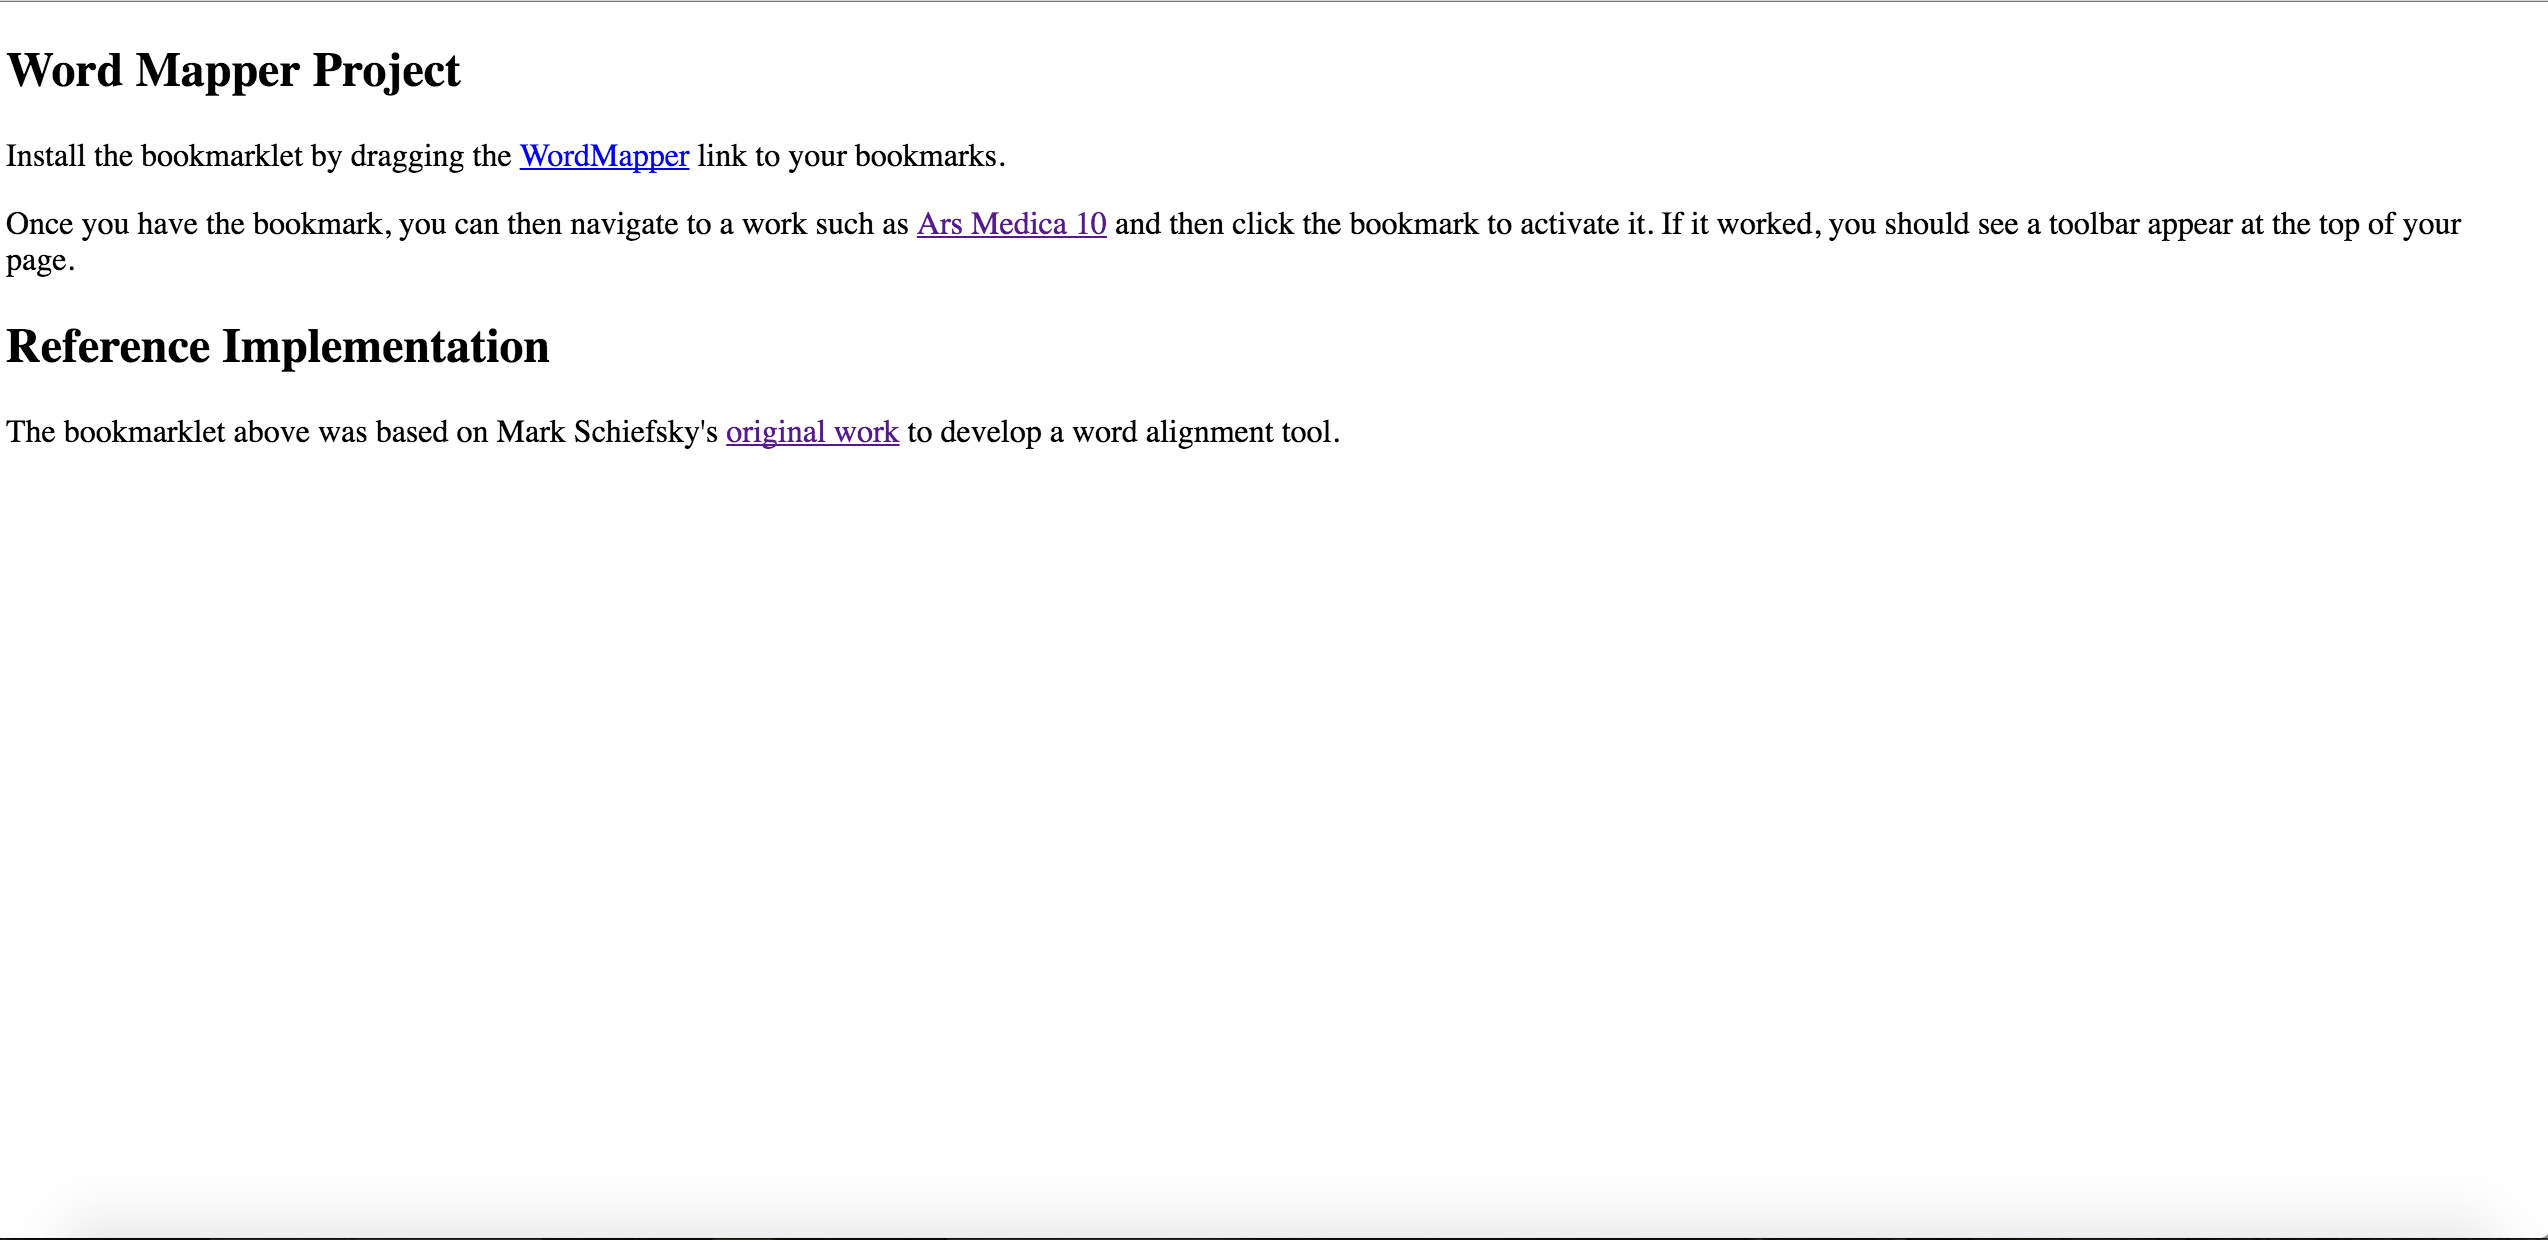
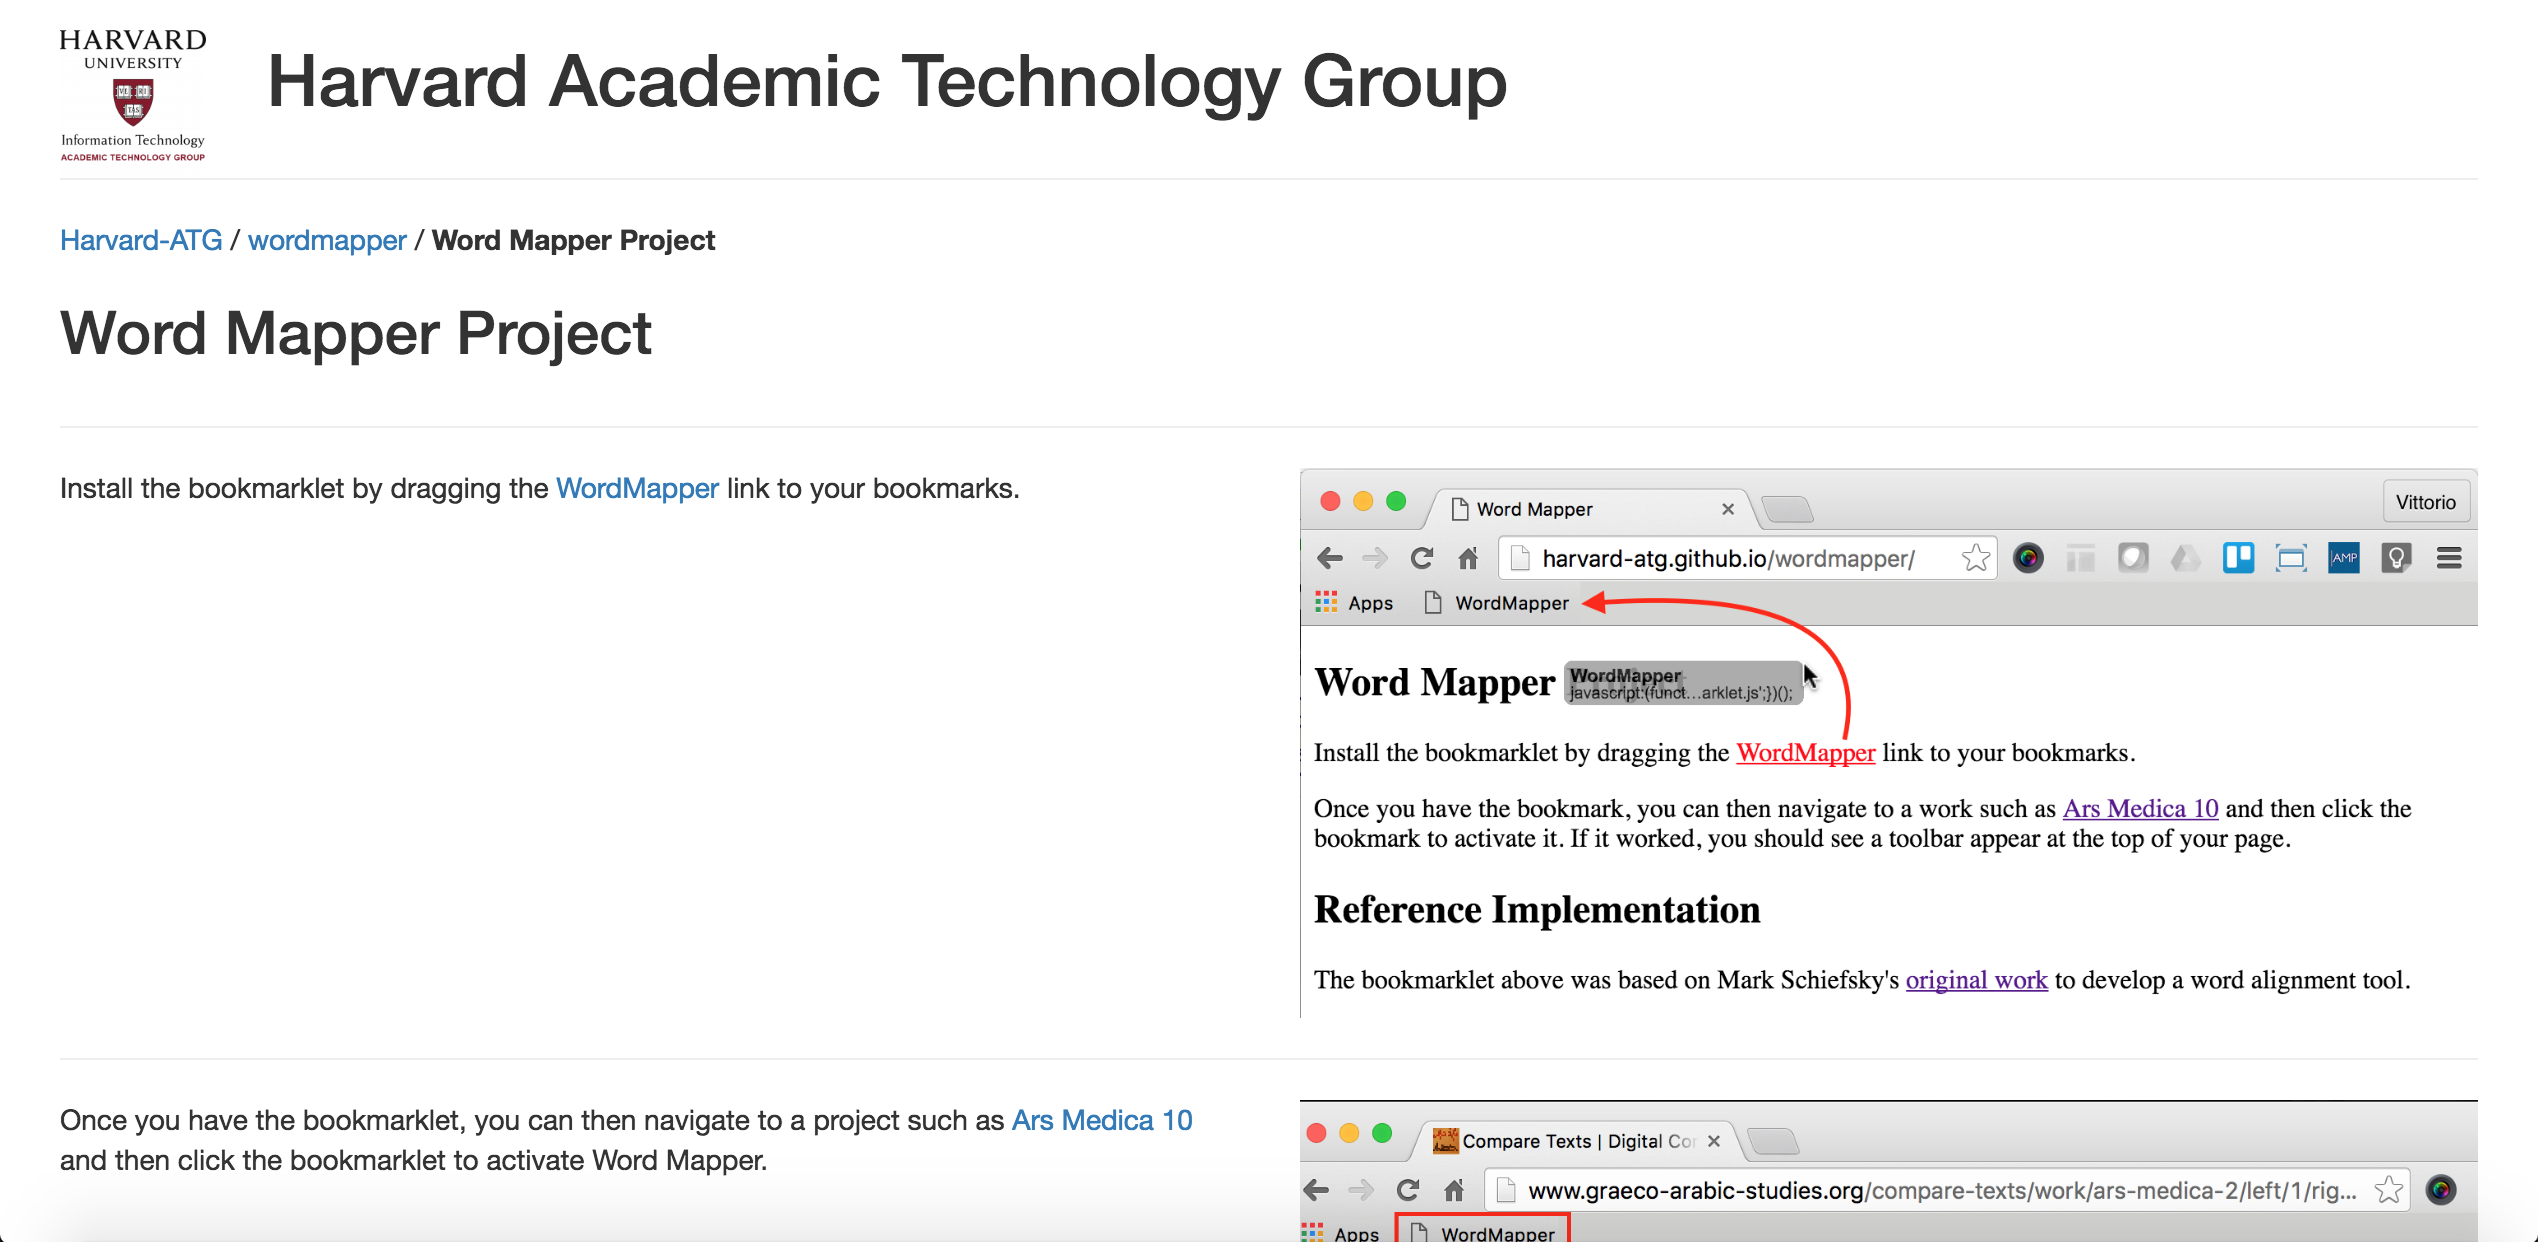
WordMapper_info, proposed screen and UI

diff --git a/WordMapper_info/index.html b/WordMapper_info/index.html
@@ -1,12 +1,71 @@
-<html><head>
+<!DOCTYPE html>
+<html>
+	<head>
 		<title>Word Mapper</title>
+		<link href="http://getbootstrap.com/dist/css/bootstrap.css" rel="stylesheet">
 	</head>
 	<body>
-		<h2>Word Mapper Project</h2>
-		<p>Install the bookmarklet by dragging the <a href="javascript:(function(){document.body.appendChild(document.createElement('script')).src='http://harvard-atg.github.io/wordmapper/dist/bookmarklet.js';})();">WordMapper</a> link to your bookmarks.</p>
-		<p>Once you have the bookmark, you can then navigate to a work such as <a href="http://www.graeco-arabic-studies.org/compare-texts/work/ars-medica-2/left/1/right/2/section/10/active/2%2C1.html">Ars Medica 10</a> and then click the bookmark to activate it. If it worked, you should see a toolbar appear at the top of your page.</p>
-		<h2>Reference Implementation</h2>
-		<p>The bookmarklet above was based on Mark Schiefsky's <a href="proto/table_2016-02-06.html">original work</a> to develop a word alignment tool.
-	
+		<div class="container-fluid">
+			<div class="col-md-1 navbar-brand">
+				<img src="https://avatars0.githubusercontent.com/u/2099831?v=3&s=200" width="100%">
+			</div>
+			<div class="col-md-11">
+				<h1>Harvard Academic Technology Group</h1>
+			</div>
 
-</p><div id="window-resizer-tooltip" style="display: none;"><a href="#" title="Edit settings"></a><span class="tooltipTitle">Window size: </span><span class="tooltipWidth" id="winWidth">1280</span> x <span class="tooltipHeight" id="winHeight">712</span><br><span class="tooltipTitle">Viewport size: </span><span class="tooltipWidth" id="vpWidth">1240</span> x <span class="tooltipHeight" id="vpHeight">236</span></div></body></html>
+			<div class="col-md-12"><hr></div>
+			
+			<div class="col-md-12">
+				<a href="https://github.com/Harvard-ATG">Harvard-ATG</a>
+				 / 
+				 <a href="https://github.com/Harvard-ATG/wordmapper">wordmapper</a>
+				  / 
+				  <strong>Word Mapper Project</strong>
+			</div>
+			
+			<div class="col-md-12">
+				<h2>Word Mapper Project</h2>
+			</div>
+
+			<div class="col-md-12"><hr></div>
+			<div class="col-md-6">
+				Install the bookmarklet by dragging the <a href="javascript:(function(){document.body.appendChild(document.createElement('script')).src='http://harvard-atg.github.io/wordmapper/dist/bookmarklet.js';})();">WordMapper</a> link to your bookmarks.
+			</div>
+			<div class="col-md-6">
+				<img src="https://github.com/Harvard-ATG/ATG-UX/blob/master/WordMapper_bookmarklet/WordMapper_bookmarklet_1a.png?raw=true" width="100%">
+			</div>
+			<div class="col-md-12"><hr></div>
+			<div class="col-md-6">
+				Once you have the bookmarklet, you can then navigate to a project such as <a href="http://www.graeco-arabic-studies.org/compare-texts/work/ars-medica-2/left/1/right/2/section/10/active/2%2C1.html">Ars Medica 10</a> and then click the bookmarklet to activate Word Mapper.
+			</div>
+			<div class="col-md-6">
+				<img src="https://github.com/Harvard-ATG/ATG-UX/blob/master/WordMapper_bookmarklet/WordMapper_bookmarklet_3a.png?raw=true" width="100%">
+			</div>
+			<div class="col-md-12"><hr></div>
+			<div class="col-md-6">
+				You should now see the Word Mapper toolbar appear at the top of your page.
+			</div>
+			<div class="col-md-6">
+				<img src="https://github.com/Harvard-ATG/ATG-UX/blob/master/WordMapper_bookmarklet/WordMapper_bookmarklet_4a.png?raw=true" width="100%">
+			</div>
+			<div class="col-md-12"><hr></div>
+
+			<div class="col-md-12">
+				<h2>Reference Implementation</h2>
+				<p>
+					The bookmarklet above was based on Mark Schiefsky's <a href="proto/table_2016-02-06.html">original work</a> to develop a word alignment tool.
+				</p>
+			</div>
+			<div id="window-resizer-tooltip" style="display: none;">
+				<a href="#" title="Edit settings"></a>
+				<span class="tooltipTitle">Window size: </span>
+				<span class="tooltipWidth" id="winWidth">1280</span> x 
+				<span class="tooltipHeight" id="winHeight">712</span>
+				<br>
+				<span class="tooltipTitle">Viewport size: </span>
+				<span class="tooltipWidth" id="vpWidth">1240</span> x 
+				<span class="tooltipHeight" id="vpHeight">236</span>
+			</div>
+		</div>
+	</body>
+</html>
